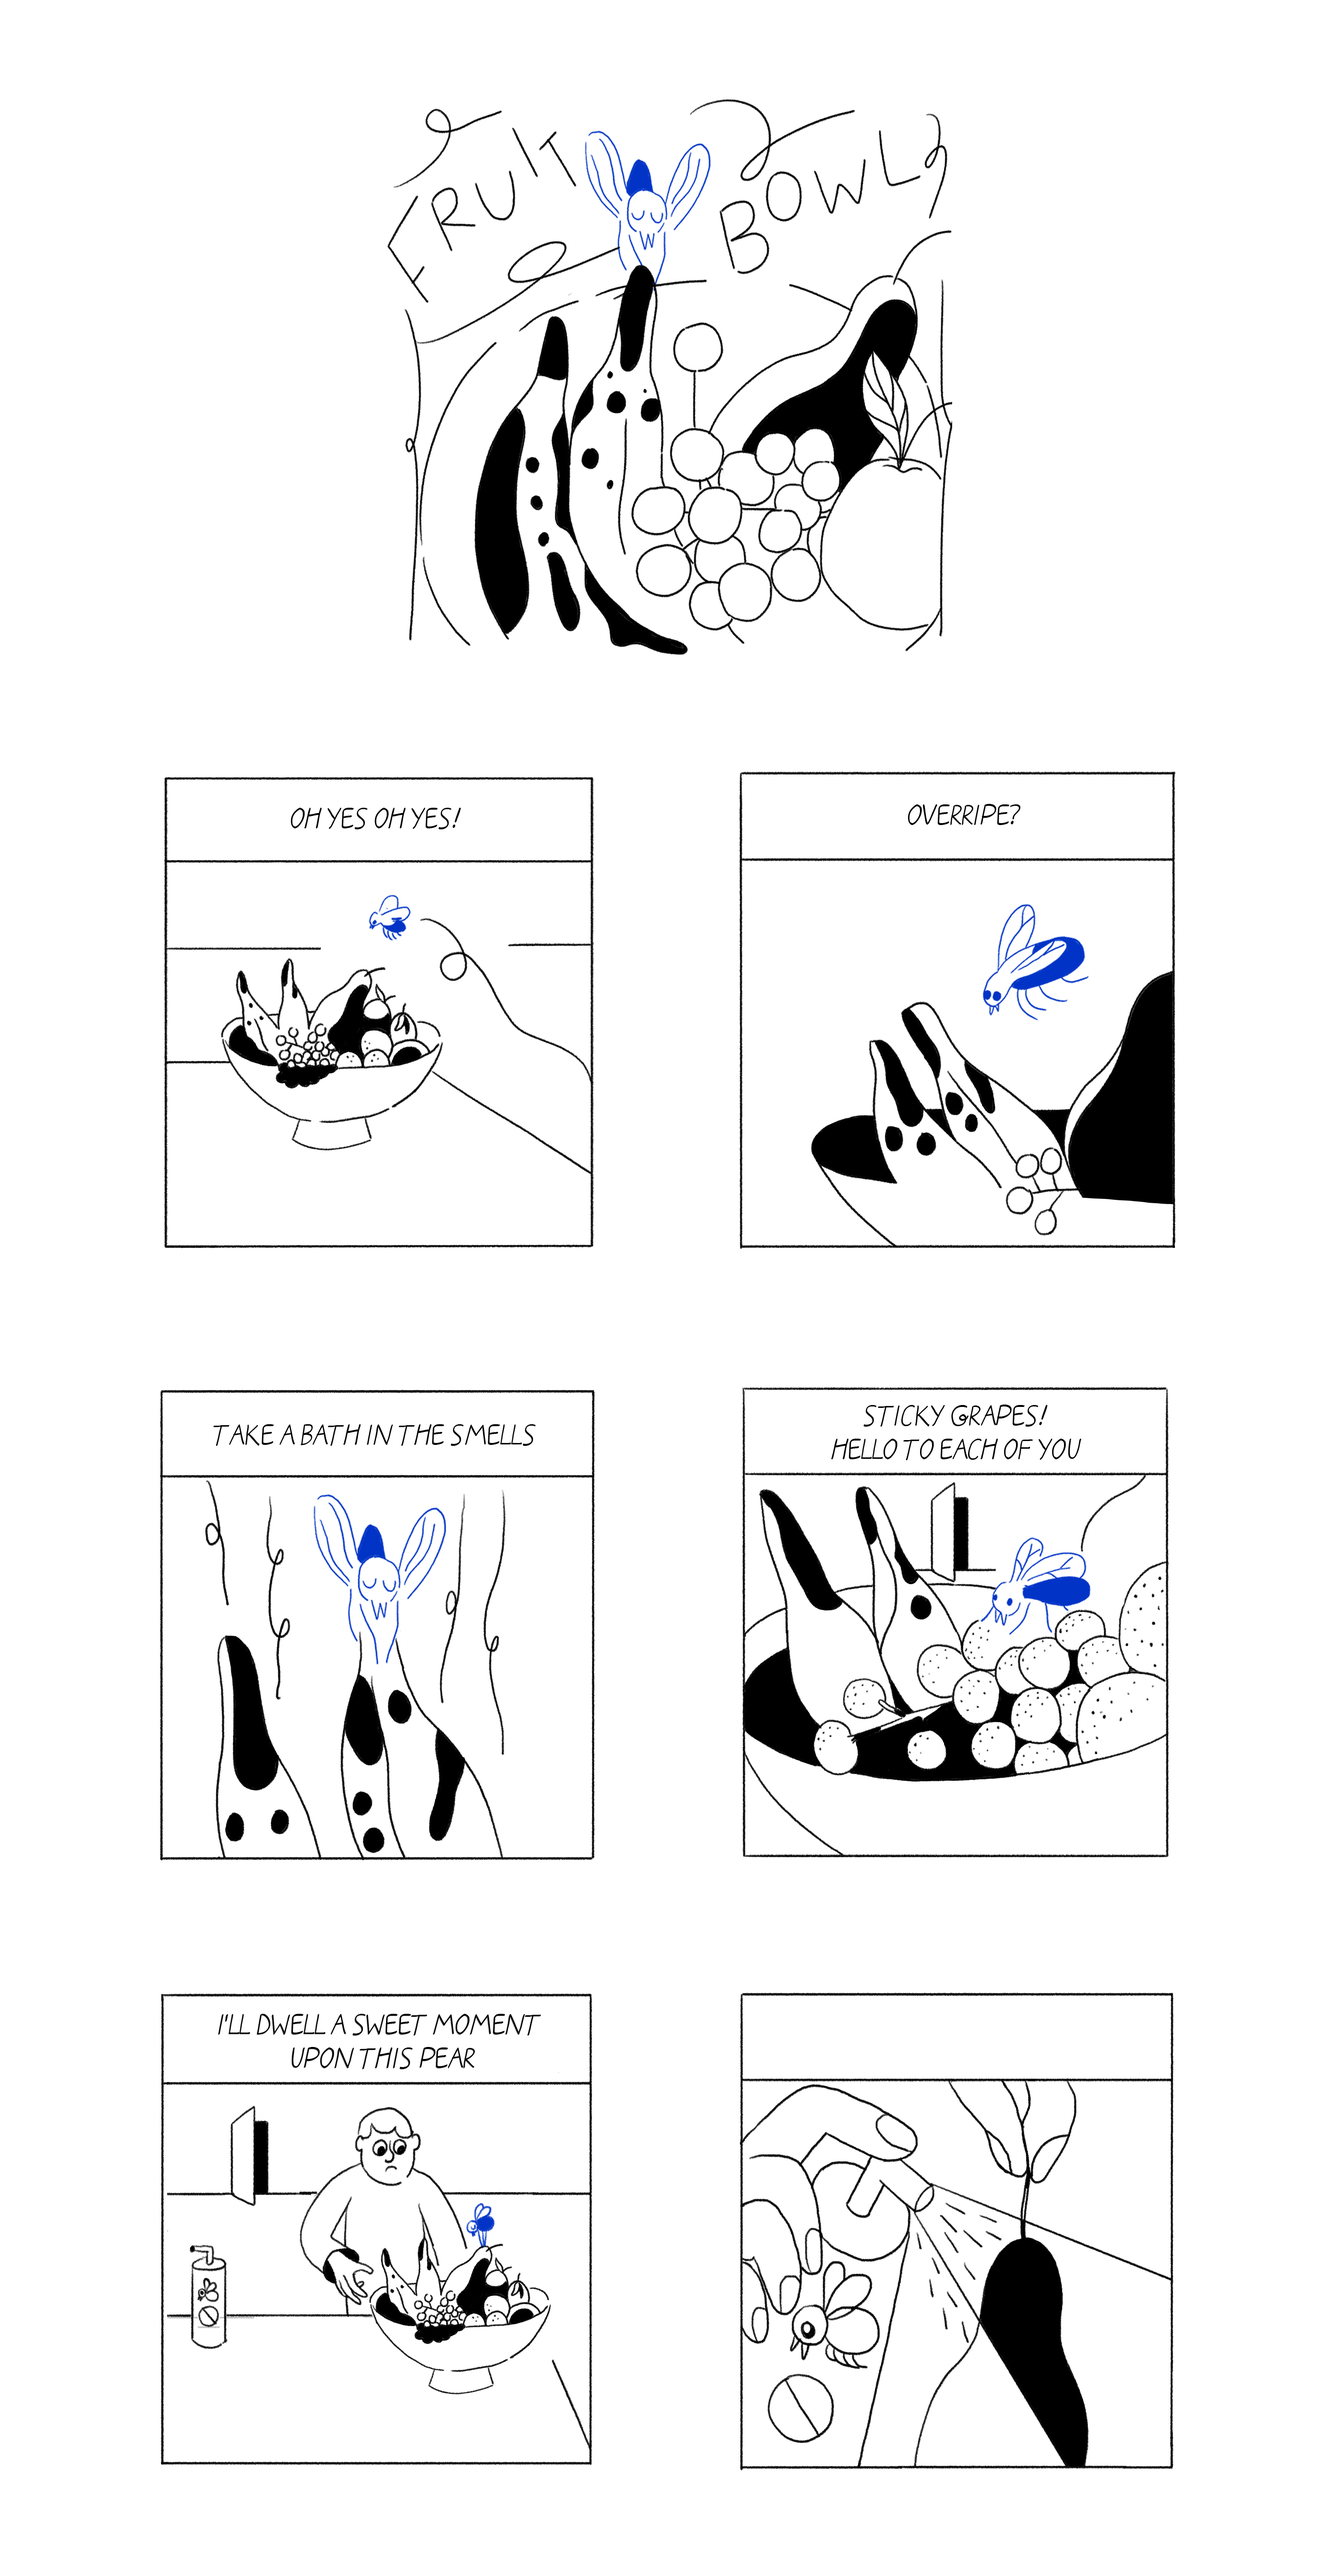
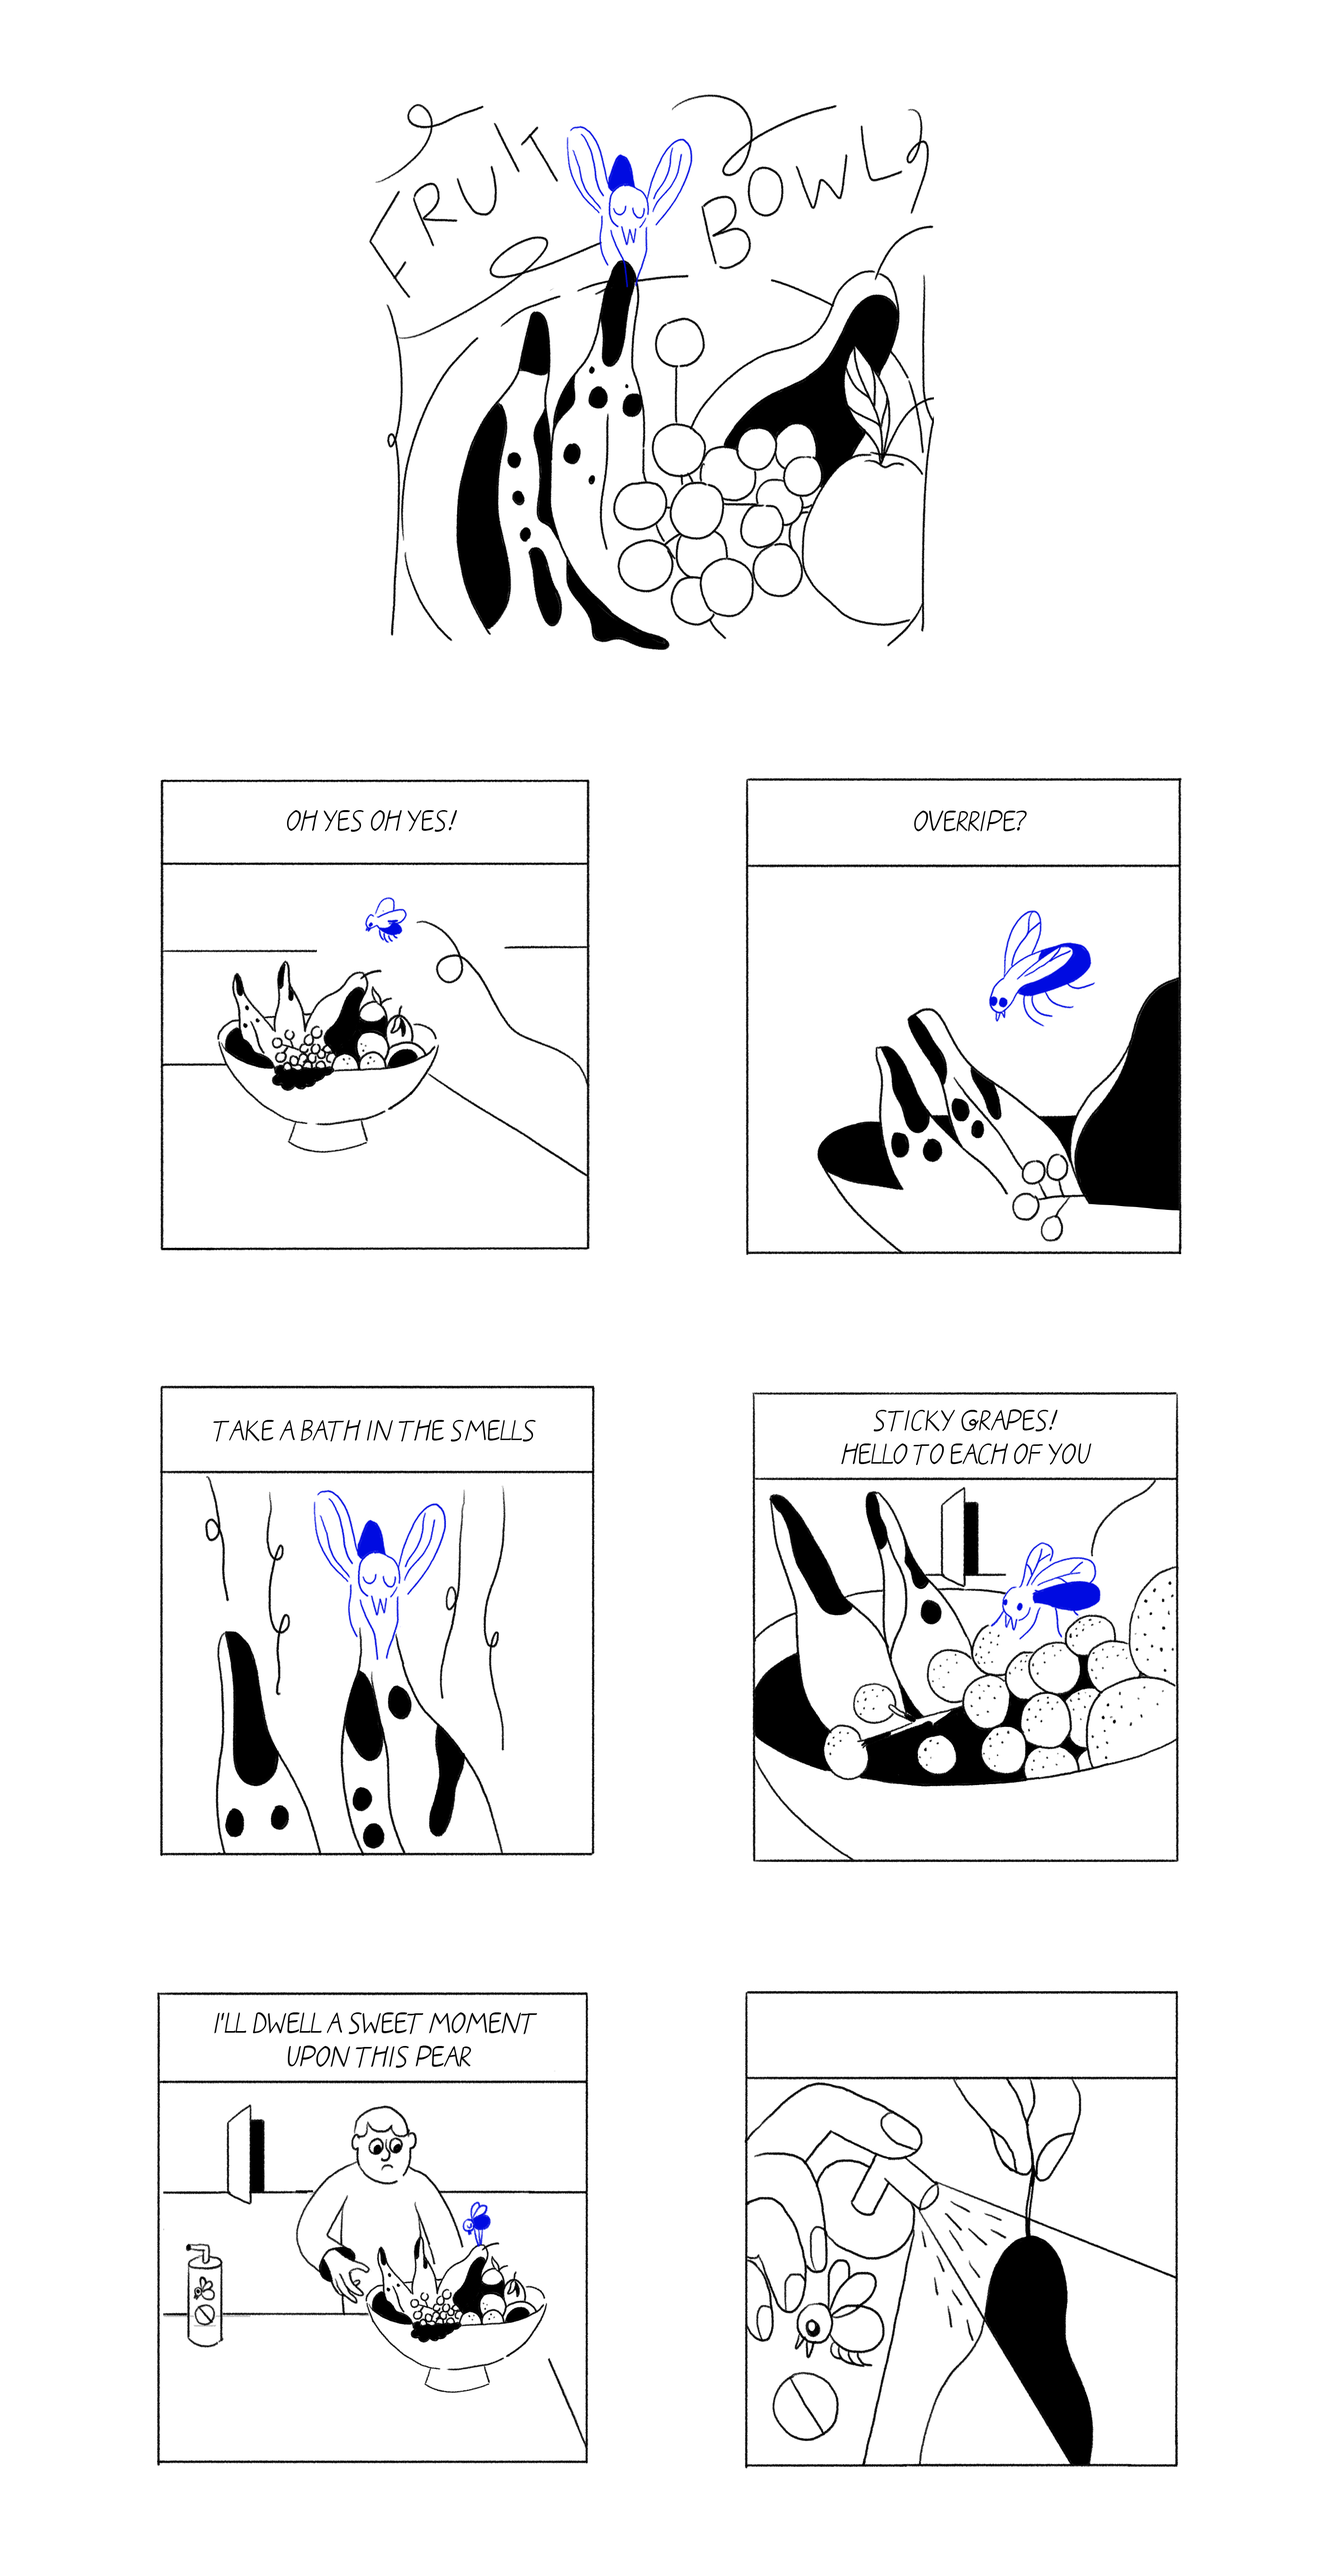
.

diff --git a/_site/swatted-a-minimalist-tragicomedy.html b/_site/swatted-a-minimalist-tragicomedy.html
@@ -57,19 +57,21 @@
 
     <p><a href="index">⬅ back</a></p>
 
-<h1 id="swatted-a-minimalist-tragicomedy">Swatted: a minimalist tragicomedy</h1>
+<h1 id="swatted">Swatted</h1>
 
-<p><em>Swatted</em> is a series of very short (six frame) stories about an optimistic fly who dies in every story. There are 7 stories in total.</p>
+<p><em>Swatted</em> was my major project at the RCA, and is a series of short comics about a fly who dies in every story. It’s an experimental approach to writing and structuring a comic. The stories are composed by following eight rules, and a different story emerges each time. The project takes the form of risograph-printed origami books.</p>
 
-<p>The stories are composed using 8 narrative rules. Rules shape behaviour and outcome. A gap between rules (the absence of a rule, something that is left undefined) is an opportunity for emergence. An emergent comic strip is a computational approach to authoring a story, where a human plays the role of a computer following a program. In Swatted, each story has the same tragic outcome: the protagonist dies at some point in the six-frame story. An aspect of chance shapes the story: the length of the fly’s life, already very short over a maximum of six panels, is controlled by a dice roll. How the protagonist dies isn’t defined, and a different story emerges each time within the structure of the rules, and from within the spaces. <a href="rca-notes">Further notes on this project</a></p>
+<p><a href="rca-notes">Further notes on this project</a></p>
 
-<h1 id="the-rules">The Rules</h1>
+<p><img src="images/fruitbowl_cover_blue.png" alt="" /></p>
+
+<h1 id="rules">Rules</h1>
 
 <ol>
   <li><em>Six panel stories.</em></li>
   <li><em>The fly dies in every story.</em></li>
   <li><em>A die roll determines the panel in which the fly dies.</em></li>
-  <li><em>The fly is relentlessly optimistic despite difficult and threatening circumstances.</em></li>
+  <li><em>The fly is relentlessly optimistic the circumstances.</em></li>
   <li><em>The fly is unaware of his low status and undesirability in human situations.</em></li>
   <li><em>Often, a second story is happening in the background.</em></li>
   <li><em>The primary voice is the fly, who performs a monologue for the audience.</em></li>
@@ -78,15 +80,15 @@
 
 <p><img src="images/hotel_comic_readable.jpg" alt="" /></p>
 
-<p><img src="images/fruitbowl_comic_readable.jpg" alt="" /></p>
+<p><img src="images/patisserie_comic_readable.jpg" alt="" /></p>
 
 <p><img src="images/ointment_comic_readable.jpg" alt="" /></p>
+
+<p><img src="images/fruitbowl_comic_readable.jpg" alt="" /></p>
 
 <p><img src="images/ointment_origami_photo.jpg" alt="" /></p>
 
 <p><img src="images/hotel_origami_photo.jpg" alt="" /></p>
-
-<p><img src="images/fruitbowl_cover_blue.png" alt="" /></p>
 
 <p><img src="images/swatted_final_show_1.jpg" alt="" /></p>
 

diff --git a/swatted-a-minimalist-tragicomedy.md b/swatted-a-minimalist-tragicomedy.md
@@ -8,20 +8,22 @@ title: Swatted
 ---
 [⬅ back](index)
 
-# Swatted: a minimalist tragicomedy
+# Swatted
 
 
-*Swatted* is a series of very short (six frame) stories about an optimistic fly who dies in every story. There are 7 stories in total.
+*Swatted* was my major project at the RCA, and is a series of short comics about a fly who dies in every story. It's an experimental approach to writing and structuring a comic. The stories are composed by following eight rules, and a different story emerges each time. The project takes the form of risograph-printed origami books.
 
-The stories are composed using 8 narrative rules. Rules shape behaviour and outcome. A gap between rules (the absence of a rule, something that is left undefined) is an opportunity for emergence. An emergent comic strip is a computational approach to authoring a story, where a human plays the role of a computer following a program. In Swatted, each story has the same tragic outcome: the protagonist dies at some point in the six-frame story. An aspect of chance shapes the story: the length of the fly’s life, already very short over a maximum of six panels, is controlled by a dice roll. How the protagonist dies isn’t defined, and a different story emerges each time within the structure of the rules, and from within the spaces. [Further notes on this project](rca-notes)
+[Further notes on this project](rca-notes)
+
+![](images/fruitbowl_cover_blue.png)  
 
 
-# The Rules
+# Rules
 
 1. *Six panel stories.*
 2. *The fly dies in every story.*
 3. *A die roll determines the panel in which the fly dies.*
-4. *The fly is relentlessly optimistic despite difficult and threatening circumstances.*
+4. *The fly is relentlessly optimistic the circumstances.*
 5. *The fly is unaware of his low status and undesirability in human situations.*
 6. *Often, a second story is happening in the background.*
 7. *The primary voice is the fly, who performs a monologue for the audience.*
@@ -30,16 +32,15 @@ The stories are composed using 8 narrative rules. Rules shape behaviour and outc
 
 ![](images/hotel_comic_readable.jpg)
 
-![](images/fruitbowl_comic_readable.jpg)
+![](images/patisserie_comic_readable.jpg)
 
 ![](images/ointment_comic_readable.jpg)    
+
+![](images/fruitbowl_comic_readable.jpg)
 
 ![](images/ointment_origami_photo.jpg)    
 
 ![](images/hotel_origami_photo.jpg)    
-
-
-![](images/fruitbowl_cover_blue.png)  
 
 ![](images/swatted_final_show_1.jpg)  
 
